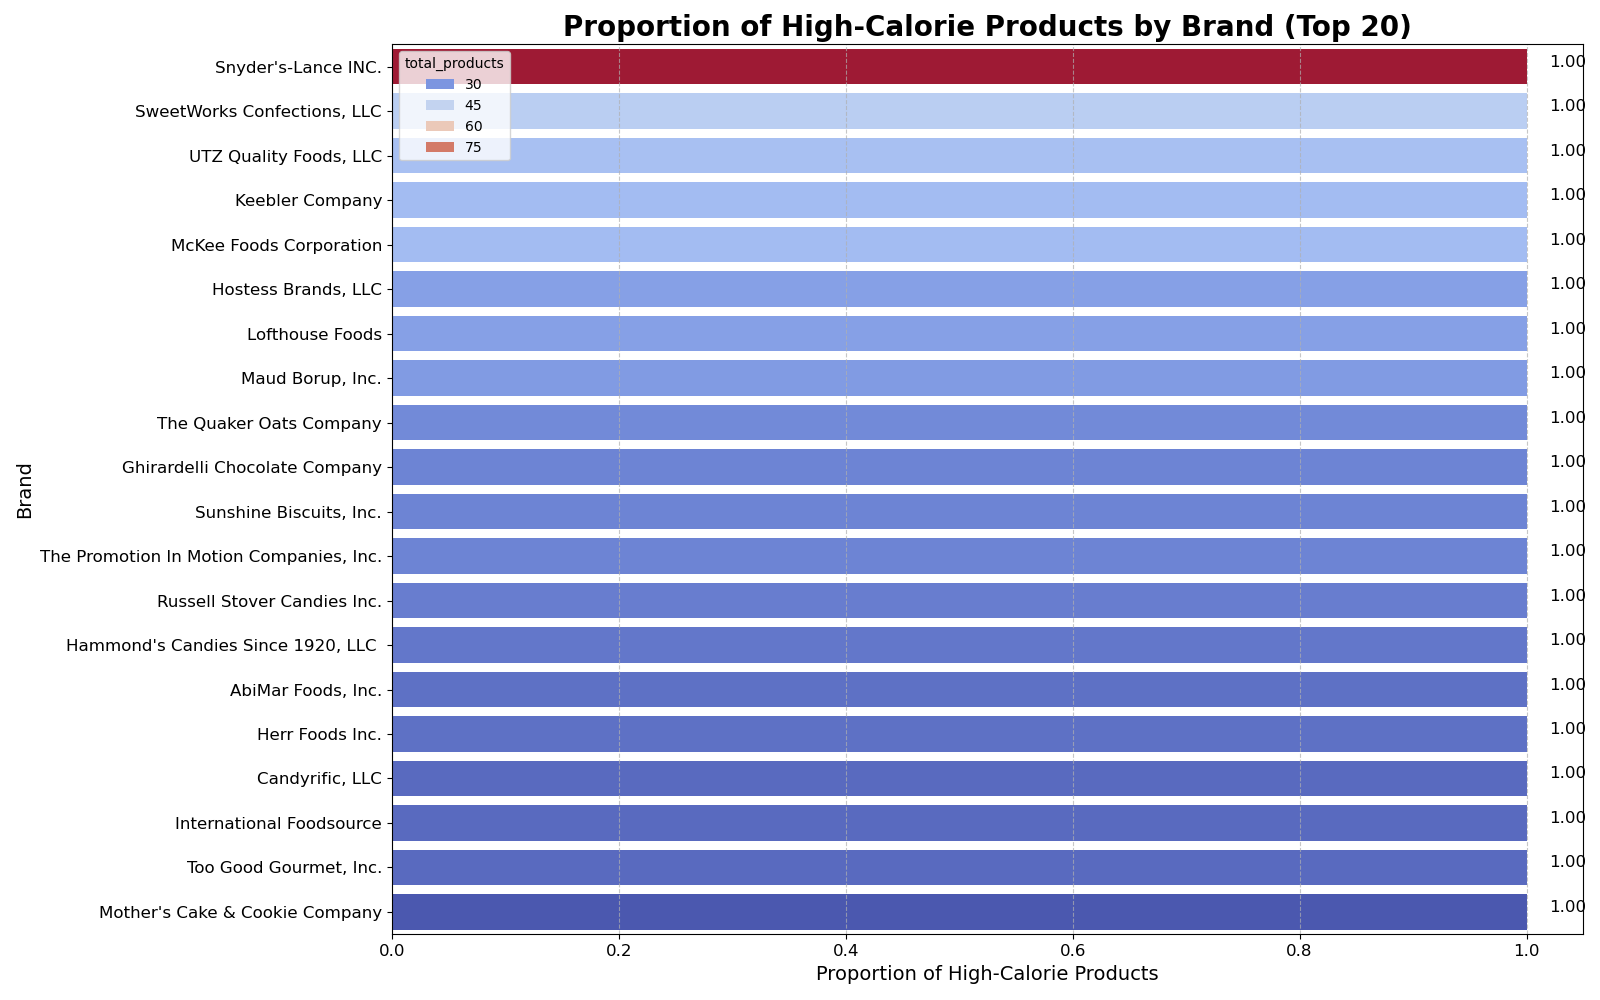
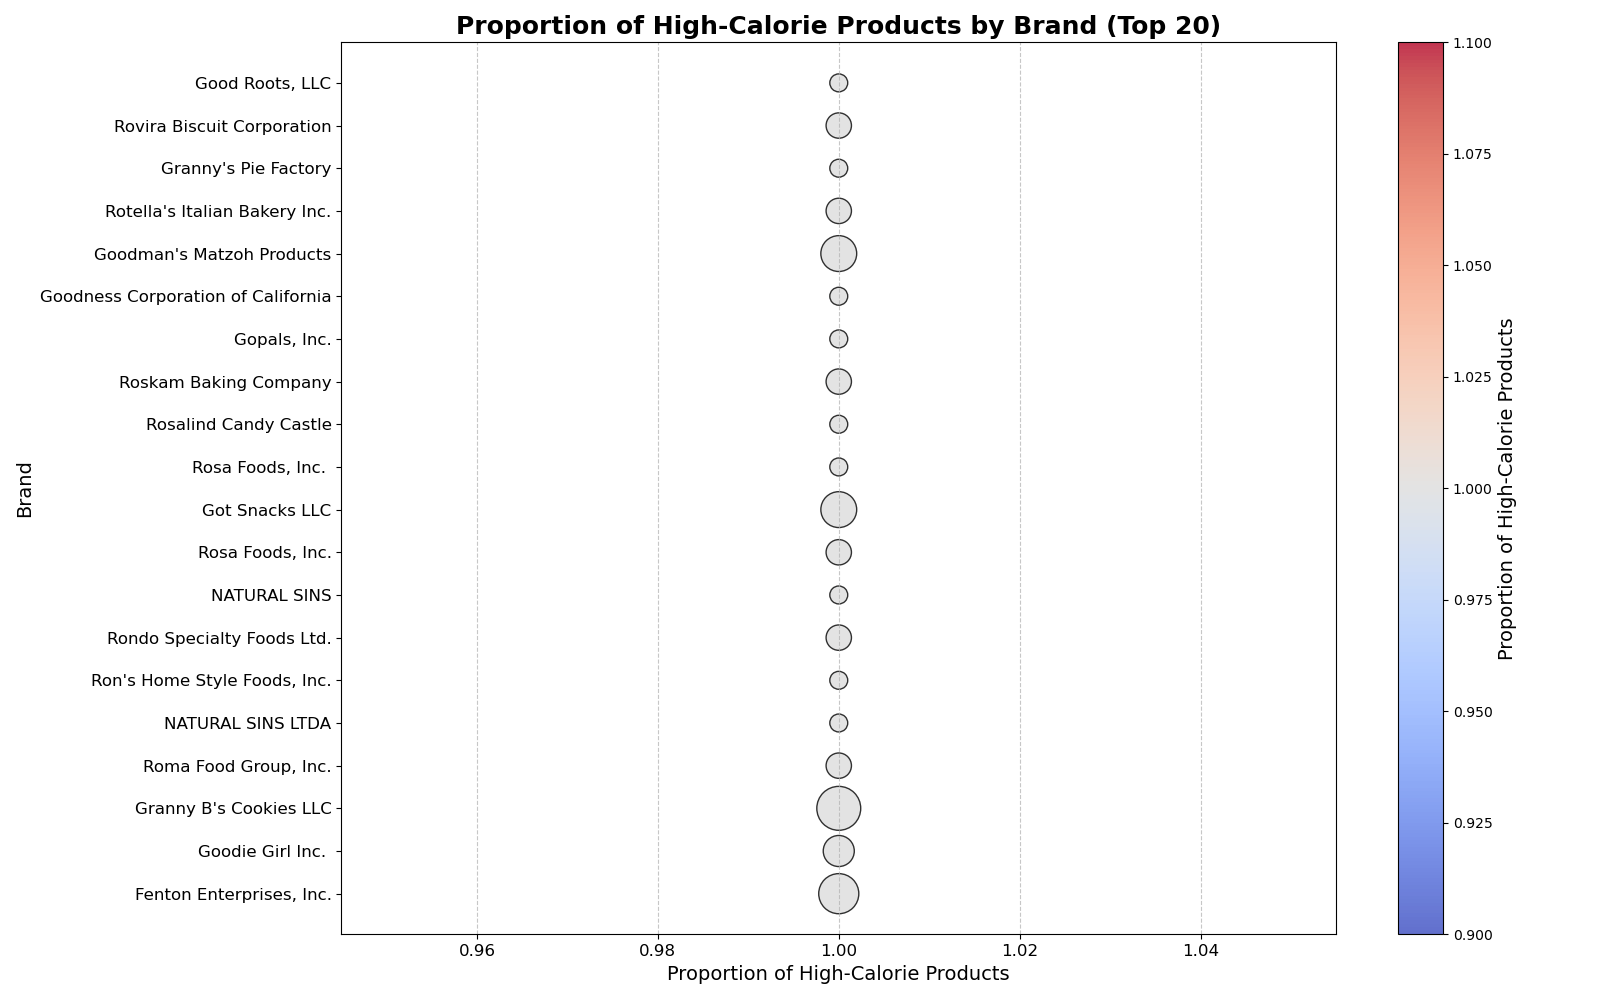
add eda5

diff --git a/src/eda5.py b/src/eda5.py
@@ -29,7 +29,7 @@ if missing_columns:
     print(f"Error: Missing required columns: {missing_columns}")
     exit()
 
-# Remove specific brands
+# Remove specific brands if needed
 brands_to_exclude = ["Kyo Footwear", "Kyo Footwear L.P."]
 df = df[~df['Brand'].isin(brands_to_exclude)]
 
@@ -46,37 +46,39 @@ brand_stats = df.groupby('Brand').agg(
 # Calculate proportion of high-calorie products for each brand
 brand_stats['proportion_high'] = brand_stats['total_high_calorie'] / brand_stats['total_products']
 
-# Remove brands that have only one product (to focus on significant brands)
-brand_stats = brand_stats[brand_stats['total_products'] > 1]
+# Sort by proportion_high in descending order
+brand_stats = brand_stats.sort_values(by='proportion_high', ascending=False)
 
-# Sort by proportion_high and total_products for better visualization
-brand_stats = brand_stats.sort_values(by=['proportion_high', 'total_products'], ascending=[False, False])
-
-# Limit to top 20 brands for better readability
+# Limit to top 20 brands
 top_brands = brand_stats.head(20)
 
-# Plotting
+# Normalize bubble sizes for better visualization
+max_products = top_brands["total_products"].max()
+top_brands["bubble_size"] = (top_brands["total_products"] / max_products) * 1000  # Scale sizes
+
+# Create bubble chart
 plt.figure(figsize=(16, 10))
-ax = sns.barplot(
-    data=top_brands,
-    x='proportion_high',
-    y='Brand',
-    hue='total_products',  # Differentiating with number of products
-    palette='coolwarm',
-    dodge=False
+scatter = plt.scatter(
+    top_brands["proportion_high"],
+    top_brands["Brand"],
+    s=top_brands["bubble_size"],  # Bubble size represents the total number of products
+    c=top_brands["proportion_high"],  # Color based on proportion
+    cmap="coolwarm",
+    alpha=0.8,
+    edgecolors="black"
 )
 
-# Add values to bars
-for index, value in enumerate(top_brands['proportion_high']):
-    ax.text(value + 0.02, index, f"{value:.2f}", color='black', ha="left", fontsize=12)
+# Color bar
+cbar = plt.colorbar(scatter)
+cbar.set_label("Proportion of High-Calorie Products", fontsize=14)
 
-# Titles and labels
-plt.title("Proportion of High-Calorie Products by Brand (Top 20)", fontsize=20, weight='bold')
+# Labels & Formatting
+plt.title("Proportion of High-Calorie Products by Brand (Top 20)", fontsize=18, weight='bold')
 plt.xlabel("Proportion of High-Calorie Products", fontsize=14)
 plt.ylabel("Brand", fontsize=14)
 plt.xticks(fontsize=12)
 plt.yticks(fontsize=12)
-plt.grid(axis='x', linestyle='--', alpha=0.7)
+plt.grid(axis="x", linestyle="--", alpha=0.7)
 
 # Save the plot
 plot_path = os.path.join(visuals_path, "top_20_brands_high_calorie_filtered.png")
